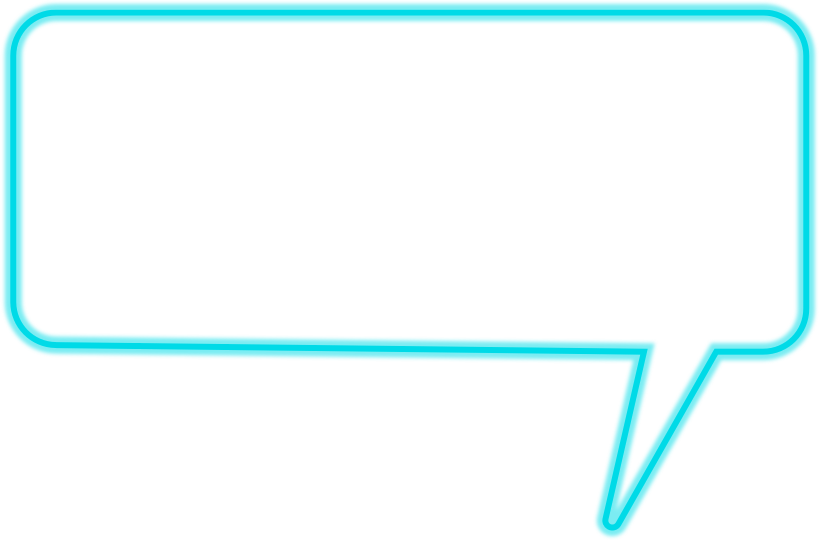
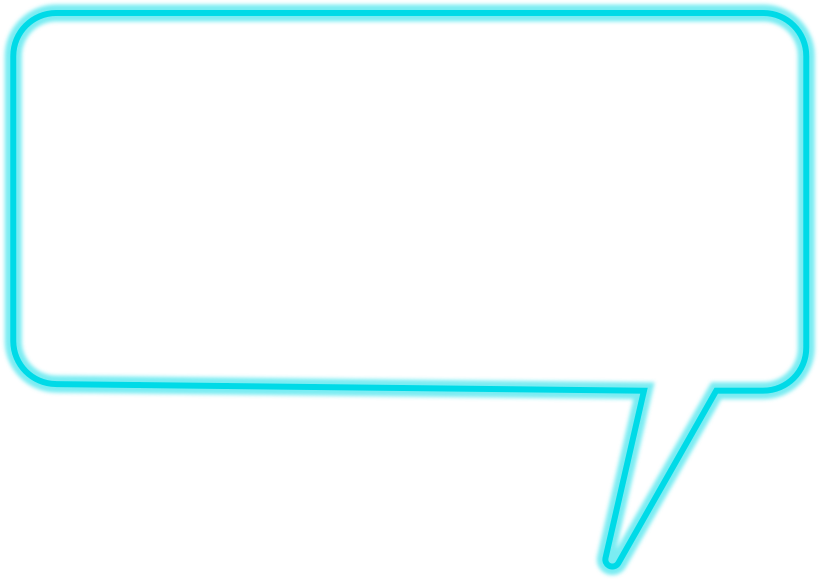
ajuste até a 3 tela

diff --git a/Thiago - wwdc.playgroundbook/Edits/UserEdits.diffpack/UserModules/UserModule.playgroundmodule/Sources/1-AboutAI.swift b/Thiago - wwdc.playgroundbook/Edits/UserEdits.diffpack/UserModules/UserModule.playgroundmodule/Sources/1-AboutAI.swift
@@ -1,13 +1,70 @@
 import PlaygroundSupport
 import SpriteKit
 import Foundation
-import UIKit
 
 public func AboutAI(){
     class aboutScene:SKScene{
+        let robot = SKSpriteNode(imageNamed: "robo_que_fala")
+        let baloon = SKSpriteNode(imageNamed: "balao_de_fala_1")
+        let mouth = SKSpriteNode(imageNamed: "boca_robo")
+        let eye = SKSpriteNode(imageNamed: "olho_robo")
+        let background = SKSpriteNode(imageNamed: "background-2")
         
         override func sceneDidLoad() {
-            self.backgroundColor = .red
+            self.backgroundColor = .black
+            
+            self.anchorPoint = .init(x: 0.5, y: 0.5)
+            self.scaleMode = .aspectFit
+            
+            background.setScale(0.55)
+            self.addChild(background)
+            
+            robot.setScale(0.5)
+            robot.position.y = -166
+            self.addChild(robot)
+            
+            eye.setScale(0.5)
+            eye.position.y = -68
+            eye.position.x = -63
+            self.addChild(eye)
+            
+            baloon.setScale(0.55)
+            baloon.position.y = 160
+            self.addChild(baloon)
+
+            eye.run(.repeatForever(.sequence([
+                .move(to: .init(x: -63, y: -68), duration: 2),
+                .move(to: .init(x: 63, y: -68), duration: 2)
+            ])))
+            
+            mouth.run(.repeatForever(.sequence([
+                .fadeIn(withDuration: 0.5),
+                .fadeOut(withDuration: 0.5)
+            ])))
+            
+            mouth.setScale(0.5)
+            mouth.position.y = -108
+            self.addChild(mouth)
+            
+//              let rec = SKSpriteNode()
+//              rec.size = CGSize(width:CGFloat(400),height:CGFloat(190))
+//              rec.position.y = 210
+//              rec.color = .red
+//              self.addChild(rec)
+            
+            let label = SKLabelNode()
+            //label.frame.height = 
+            label.numberOfLines = 0
+            label.preferredMaxLayoutWidth = 400
+            label.position.y = 180
+            
+            let text = "thiago da silva martins e um ios develper no apple developer academy"
+            
+            self.addChild(label)
+            
+            typeText(label: label, text: text, timeForLetter: 0.1)
+            
+            
         }
         
     } 

diff --git a/Thiago - wwdc.playgroundbook/Edits/UserEdits.diffpack/UserModules/UserModule.playgroundmodule/Sources/1 - ExamplesOfAI.swift b/Thiago - wwdc.playgroundbook/Edits/UserEdits.diffpack/UserModules/UserModule.playgroundmodule/Sources/1 - ExamplesOfAI.swift
@@ -1,0 +1,69 @@
+
+import PlaygroundSupport
+import SpriteKit
+import Foundation
+
+public func ExamplesOfAI(){
+    class exampleScene:SKScene{
+        let baloon = SKSpriteNode(imageNamed:"balao_de_fala_2")
+        let florest = SKSpriteNode(imageNamed:"threes")
+        let health = SKSpriteNode(imageNamed:"health")
+        let car = SKSpriteNode(imageNamed:"car")
+        let photos = SKSpriteNode(imageNamed:"photos")
+        
+        override func sceneDidLoad() {
+            self.backgroundColor = .black
+            self.anchorPoint = .init(x: 0.5, y: 0.5)
+            self.scaleMode = .aspectFit
+            
+            baloon.setScale(0.55)
+            baloon.position.y = 230
+            self.addChild(baloon)
+            
+            florest.setScale(0.5)
+            florest.position.x = -115
+            florest.position.y = 10
+            florest.name = "florest"
+            self.addChild(florest)
+            
+            health.setScale(0.5)
+            health.position.x = 115
+            health.position.y = 10
+            health.name = "health"
+            self.addChild(health)
+            
+            photos.setScale(0.5)
+            photos.position.x = -115
+            photos.position.y = -180
+            photos.name = "photos"
+            self.addChild(photos)
+            
+            car.setScale(0.5)
+            car.position.x = 115
+            car.position.y = -180
+            car.name = "car"
+            self.addChild(car)
+            
+        }
+        
+        
+        override func touchesEnded(_ touches: Set<UITouch>, with event: UIEvent?) {
+            let touch = touches.first
+            let positionInScene = touch!.location(in: self)
+            let touchedNode = self.atPoint(positionInScene)
+            
+            if let name = touchedNode.name{
+                //print(name)
+            }
+        }
+        
+        
+        
+    }
+    
+    var view = SKView(frame: CGRect(origin: .zero, size: CGSize(width: 518, height: 717)))
+    
+    var scene = exampleScene(size: view.frame.size)
+    view.presentScene(scene)
+    PlaygroundPage.current.setLiveView(view)
+}

diff --git a/Thiago - wwdc.playgroundbook/Edits/UserEdits.diffpack/UserModules/UserModule.playgroundmodule/Sources/1-Cover.swift b/Thiago - wwdc.playgroundbook/Edits/UserEdits.diffpack/UserModules/UserModule.playgroundmodule/Sources/1-Cover.swift
@@ -2,8 +2,7 @@
 import PlaygroundSupport
 import SpriteKit
 import Foundation
-import UIKit
-import AVFoundation
+
 
 public func Start(){
     class myScene: SKScene{
@@ -48,27 +47,15 @@ public func Start(){
             let label = SKLabelNode()//(fontNamed: "Chalkduster")
             label.fontSize = 60
             label.fontColor = SKColor.cyan
-            label.text = ""
             label.preferredMaxLayoutWidth = 330
             label.numberOfLines = 0
             label.verticalAlignmentMode = .center
-            typeText(label: label)
+            var texto = "The age of A.I."
             self.addChild(label)
-            
+            typeText(label: label, text: texto, timeForLetter: 0.15)
         }
         
-        func typeText( label: SKLabelNode){
-            var texto = "The age of A.I."
-            var j : Double = 1.0
-            for i in texto{
-                DispatchQueue.main.asyncAfter(deadline: .now() + (j*2)/10){
-                    label.text! += "\(i)"
-                    RunLoop.current.run(until: Date()+0.2)
-                    j += 1
-                    AudioServicesPlaySystemSound(1306)
-                }
-            }
-        }
+        
         
         func addAnimatedCircles(){
             
